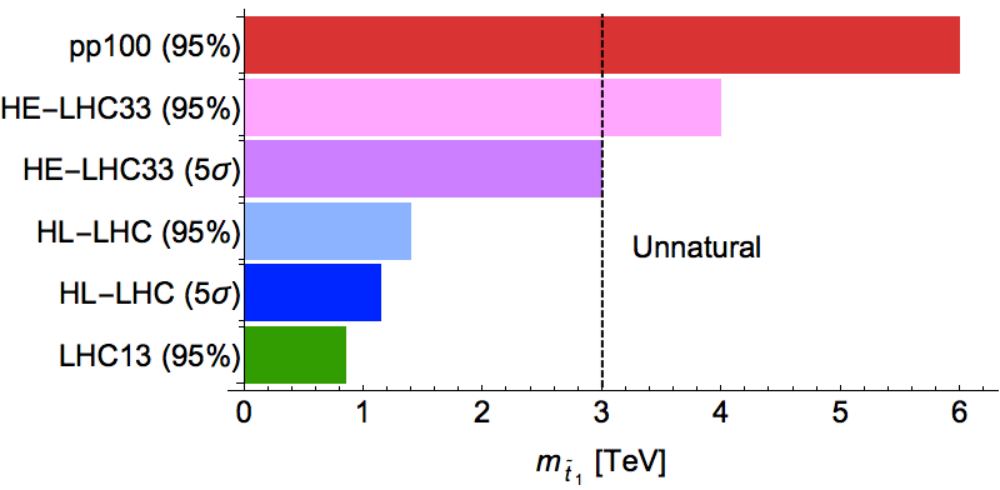
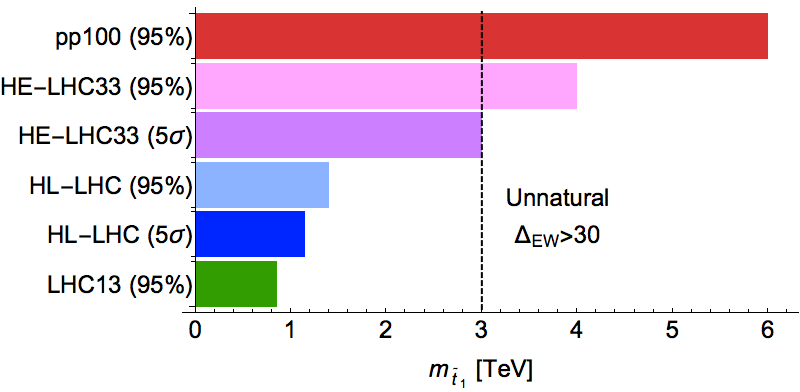
perspectives

Changed region(s): [[0.0, 0.0306, 1.0, 0.8571], [0.5312, 0.9184, 0.6875, 0.9796]]

diff --git a/stop.tex b/stop.tex
@@ -996,73 +996,26 @@ where $\sum_{u}^{u}$ denotes 1-loop corrections and the three terms on the right
 }
 gives the measure for fine-tuning of SUSY at the electroweak scale. Requiring the $\Delta_{EW}$<30, i.e. 3\% fine-tuning or better, then the upper bound on the gluino mass is up to 4~TeV, the lighter stop mass up to 3~TeV. The of two lighter neutralinos and lightest chargino which are higgsino-like can go up to 300~GeV and these three sparticles are expected to be almost mass degenerate. The other charginos and neutralinos masses are exzpected to be at TeV scale.
 
-+
-Fig.2
 
+To compute the spectrum of the possible lighter stop vs. LSP masses, the two-extra-parameter non-universal Higgs model~(NUH2M)~\cite{Matalliotakis:1994ft, Nath:1997qm, Ellis:2002iu, Baer:2005bu} was used. The theoretical parameters in this model were varied within given boundary $\Delta_{EW} <30$, the lightest chargino is heavier than 103.5~GeV, the masses pf gluino and all other squark masses except of $\tilde{t}_{1}$ are higher than excluded masses at LHC Run~1 and Higgs boson mass is of $125 \pm 2$~GeV. The possible configurations of the $\tilde{t}_{1}$ and LSP masses obtained by the described model are shown in Fig.~\ref{fig:figures/mz1mt1delew}. In this figure the possible scenarios which have $\Delta_{EW} <15$ and $\Delta_{EW} <30$ are shown in red and blue crosses, respectively, together with the existing exclusion limits in 2016 derived by CMS~\cite{CMS:2016hxa} (red line) and ATLAS~\cite{ATLAS:2016jaa, ATLAS:2016ljb, ATLAS:2016xcm, Aaboud:2016tnv} (black line) collaborations. The predicted exclusion limit and discovery potential to be reached by the ATLAS collaboration in the fully hadronic search for the integarted luminosity of $3000$fb$^{-1}$ expected at the HL-LHC is shown in orange line. The black dotted line corresponds to the situation when the lighter stop and LSP have the same mass. In this figure it can be seen, that many signal scenraios were already excluded, but as well many scenarios will remain uncovered eveni with the HL-LHC data. The predicted reach of teh HL-LHC is up to around 1.4~TeV in the stop masses, however the natural SUSY scenario predicts stop masses up to 3~TeV. Also in can be noticed that this model does not predict many scenarios in the compressed region.  
 
-  and examines the stop discovery and exclusion potential for current and future colliders as depicted in Fig.~\ref{collidersstop}. The figure reveals, that the stop mass of 3~TeV cannot be probed at current center-of-mass energies of 13~TeV and machine delivering collisions at center-of-mass energy of 33~TeV would be needed.  [TODO: maybe this discussion should not really be here, what do you think?]
+    \insertFigure{figures/mz1mt1delew} % Filename = label
+                 {0.7}       % Width, in fraction of the whole page width
+                 { The plane of the $\tilde{t}_{1}$ vs LSP masses. The natural SUSY scenarios with $\Delta_{EW} <15$ and $\Delta_{EW} <30$ are shown in red and blue crosses, respectively. In red, black and orangle lines, are depicted the existing and predicted exlusion limits. The green lines shows discovery potential for the HL-LHC. The dotted line is drawn for the situation when the stop and the LSP have same masses~\cite{Baer:2016bwh}.   }
+
+The Ref.~\cite{Baer:2016bwh} examines prospects for the stop discovery and presents the exclusion potential for current and future colliders as depicted in Fig.~\ref{fig:figures/collidersstop}. The figure reveals, that as hown previously, the stop mass of 3~TeV cannot be probed at current center-of-mass energies of 13~TeV. To probe such high stop masses, a machine delivering collisions at center-of-mass energy of 33~TeV would be needed. 
 
     \insertFigure{figures/collidersstop} % Filename = label
                  {0.45}       % Width, in fraction of the whole page width
-                 { Potential for discovery (5$\sigma$) and exclusion (95\%) of the current LHC with center-of-mass energy of 13~TeV, HL-LHC with center-of-mass energy of 13~TeV, HE-LHC with center-of-mass energy of 33~TeV,  and pp collider with center-of-mass energy of 100~TeV given the stop mass $\tilde{t}_{1}$~\cite{Baer:2016bwh}.  }
+                 { Potential for discovery (5$\sigma$) and exclusion (95\%) of the current LHC with center-of-mass energy of 13~TeV, HL-LHC with center-of-mass energy of 13~TeV, HE-LHC with center-of-mass energy of 33~TeV,  and pp collider with center-of-mass energy of 100~TeV (FCC) given the stop mass $\tilde{t}_{1}$~\cite{Baer:2016bwh}.  }
 
 
-%Beyond the studied model
-%compressed arXiv:1504.00504, dispalced signatures: arXiv:1601.01326 not all studied at LHC
-% Matural SUSY in unconventional signatures -?Mariotti
+One may also examine what are the expactations on the SUSY mass spectrum from other measurements than direct searches for SUSY particles. One of the options is to study the branching ratio of the b quark to s quark and photon BR($b \to s\gamma$).  This decay is possible in the SM via loops with W boson and top quark and within the SUSY other loops are possible. These are mainly loops with  stop and chargino, and loops withb quark and charged Higgs boson. Therefore the measured BR$(b \to s\gamma) = (3.01 \pm 0.22)$~\cite{Belle:2016ufb} can be compared with the prediction of the BR for each scenario in the $\tilde{t}_{1}$ vs LSP plane. The compatibility of the measured and predicted branching ratio excludes stop masses lower than 500~GeV. In the majority of scenarios in which the stop mass is larger than 1.5~TeV, the predicted and measured BR is in agreement within $2\sigma$~\cite{Baer:2016bwh}.
+
+One can also obtain constraints on the masses of SUSY paricles from the observed average cold dark matter densitiy~\cite{Ade:2015xua, Patrignani:2016xqp} which is  $\rho_{DM} \approx 1.2 \times 10^{-6} \mathrm{GeV/cm^{3}}$.  In the early unniverse there was an thermal equilibrum between SM and SUSY particles. As the universe cooled down, heavier particles could not be produced anymore, they only anihilated into SM partiicles or decayed to teh LSP which in this text considered to be neutralino. Eventually lSPs also anihilated ointo SM particles. With continuing expansion of the universe, the anihilation rate became small and the LSPs experienced a ``freeze-out''. If the LSP is mostly higgssino or wino, in order to reproduce the observed dark matter density, the LSPs needs to be very heavy, of order of 1~TeV and more. This model is notyet excluded by the LHC, but on the other hand it is not natural. Another option is bino-like LSP, but the masses of such LSP in the majority of paramater space given the constraint on the cold dark matter densitiy, are already excluded by the LHC. The non-excluded bino-like LSPs lead to too large cold dark matter densitiy, which can be reduced for example by assuming that one of the sleptons is not too heavy.  But in this case the slepton too light and large part of such models is alredy excluded at the LHC. The cold dark matter density for the bino-like LSP scenario can be also reduced in the compressed scenario, when the LSP mass is around at least mass of the top quark and is maximum 100~GeV heavier, and the the $\tilde{t}_{1}$ is around 150~GeV larger then the mass of the LSP. In this model the gluino and wino mass parameters ratio must be smaller than the prediction giving the unification of interactions in order to make this model natural~\cite{Martin:2008aw}. Although many possibile scenarios are already ruled out by the requirements on the cold dark matter density, tehre are still parts of parameter spce which are uncovered. Moreover, the described considerations suppose only simple thermal mechanism for production of LSP. If, for example, there is other production mechanisms or the R-parity is broken, the conclusions do not have to hold.
+
+There is also a pssibility that the MSSM is not the correct realization of the SUSY and we should examine the theories beyond MSSM. For example in the MSSM the R-parity is conserved, which protects the proton to decay. But there is no fundamental reason that R-parity should be conserved in case it is replaced by another symmetry, which protects proton to decay. For example, such symmetry conserves baryon number but not the lepton one. In the case that R-parity is violated, the LSP can decay and therefore the signal production and final states differ from the ones assuming R-parity conservation. Both pair and single SUSY particle production is expected. Depending on R-parity violation scenario, the LSP can decay to leptons or/and jets or do not decay in teh detector, resulting in the final states with large number of charged leptons, jets or \MET, or combination of these.
 
 
-%reinterpretations
-%pssm https://arxiv.org/pdf/1606.03577.pdf
-	
-%Beyond mssm - RPV susy
-%normally r-parity assumed in order not  to have proton decay
-% but there are proposals how to violate parity and make proton stable
-%for example replace r-parity by a new symmetry, which conserves baryon but violates lepton number -> this symmetry allows LSP to decay
-%then collider signatures completely different
-	%both pair and single sparticle production
-	%LSP can decay - if lepton number violation neutralino decays to two opposite charge (maybe even difefrent flavour) leptons plus neutrino -> charged leptons or large MET or both
-	%if B violation LSP decaying to hadrons
-	%the signal signature depends on the r-parity violation model and therefore it is different for different models
-	%also in some cases, other sparticles other than LSP can decay to to SM particles
-		%several models already excluded at LHC
+As discussed in the previous paragraphs, tehre are many models of SUSY which are already excluded but on the other hand there are still many possibilities where to search for the SUSY. In was shown, that the lighter stop can have mass up to 3~TeV and be beyound the reach of the LHC. Or it might be needed to go beyond MSSM and focus our searches on more compicated models.
 
-
-%compressed spectra
-
-%dark matter motivation for SUSY (Martin 129)
-%known cold dark matter density $\Omega_{DM}h^{2} \approx 0.120$ -> omega is the average energy density in non-baryonic dm divide3d by the critical density that would lead to a spatially flat homogenous universe, h is the hubble constant in units of 100 $km sec^{-1} MPc^{-1}$, $h^2$ observed to be 0.46 therefore cold dark matter denisty $\rho_{DM} = 1.2 \times 10^{-6} GeV/cm^{3}$
-%LSP the dm candidate - it can be gravitino, sneutralino or lightest neutralino
-%sneutrino lsp is largely ruled out by  direct searches [284]
-%gravitions possible candidate which could have the correct relic density but impossible to detect directly -> their interaction is too weak
-%best option for detection is neutralino
-% in early universe sparticles were in thermal equilibrum with sm particles, but then universe cooled down,  the heavier particles could not be produced anymore, they anihilated into SM particles or decayed to LSP.
-%eventually the anihilation rate became was smaller compared to expansion and there was a freezeout of lsps to the today density (diluted by the expansion)
-%IF
-%LSP is mostly higgsino or mostly wino, the LSP needs to be very heavy (around 1 TeV) to obtain correct dm density -> this is against hierarchy but within LHC limits
-	%to get lighter higgsino-like or wino-like LSP, non-thermal mechanism exist to predict correct density
-%IF
-%In many susy models lightest neutralino is bino-like
-	%but the masses predicting correct dm density are already excluded by collider experiments
-	%but the density can be reduced, if at least one of the sfermions is not too heavy -> usually spleptons, but the sleptons are light enough to be already excluded at LHC
-	%but there is a viable option where stop is less than 150GeV heavier than LSP, then LSP is between mass of the top and top+100GeV. But it violates the prediction for unification at higher scales - actually now I see than in my analysis it is also excluded
-	%or there must be some anihilation mechanism which decreases the abundance of LSP
-%MSUGRA is giving masses of squarks to be several TeVs -> attractive
-
-%but simple thermal (anihilation and decay) mechanism to compute the relic density, but does not have to be true, there might be -> e.g. breaking of r-parity, non-thermal mechanism ( such as out-of-equilibrum decays), or non-thermal production of neutralinos after freeze-out
-	%therefore the assumptions above just for simplified model and it is not strict exclusion 
-
-%Some ideas
-
-%SM measuremets of coupling -> bsm physics
-%b-> s gamma measurements
-
-%Other possibilities beyond MSSM -NMSSM
-
-%\begin{itemize}
-%\item W/top tagging
-%\item Stops beyond 1TeV  - motivation, perspectives for HL-LHC
-%\item Beyond SMS - different models, exotic signatures
-%\end{itemize}
-
-%When Δm(stop,lsp) ~ m(top), the decay products in the rest frame of the stop have ~no momentum.  When m(lsp) << m(top), whatever boost the stop receives is primarily transmitted to the top, resulting in very little MET	
